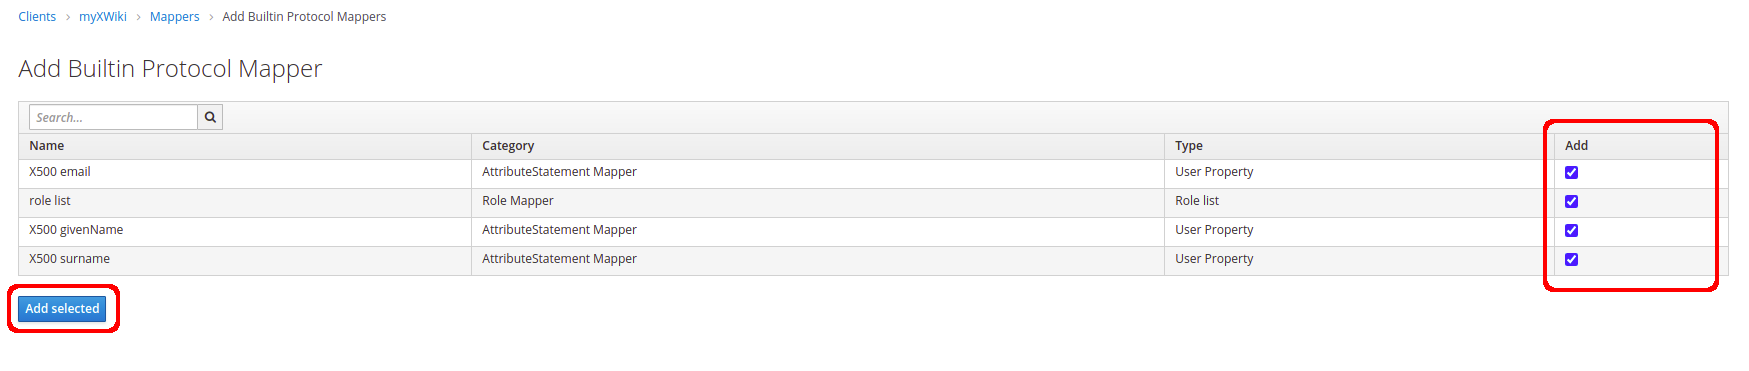
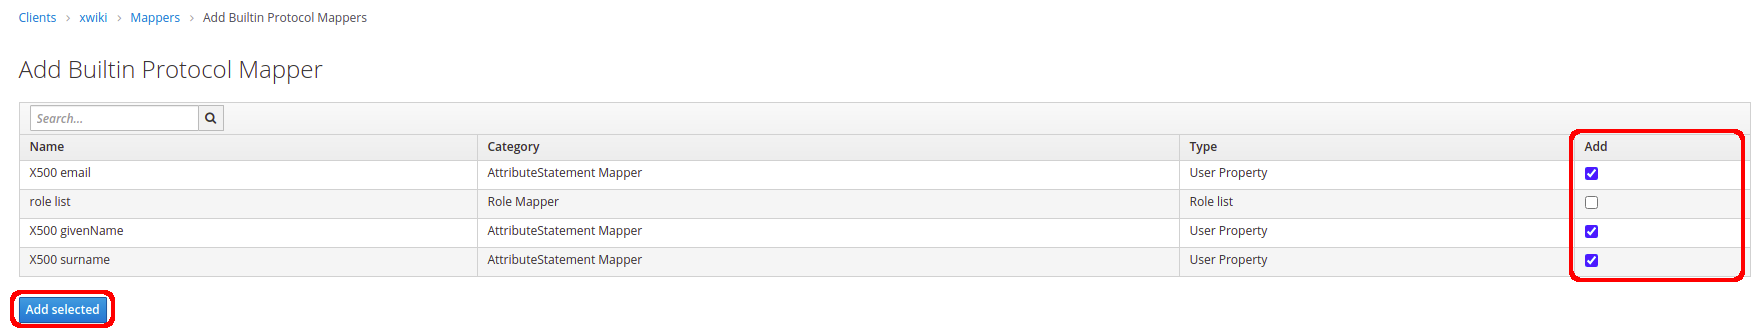
fix keycloak instructions

diff --git a/keycloak-setup.md b/keycloak-setup.md
@@ -1,7 +1,7 @@
-# It has been tested with KeyCloak SAML authentication.
+# It has been tested with Keycloak SAML authentication.
 
 ## Step 1) Create your realm
-+ [Follow the instructions in KeyCloak documentation.](https://www.keycloak.org/docs/latest/getting_started)
++ [Follow the instructions in Keycloak documentation.](https://www.keycloak.org/docs/latest/getting_started)
 
 
 ![keycloak realm settings](images/keycloak_realm_settings.png)
@@ -71,7 +71,7 @@
 ## Step 4) Client Mappers
 
 + Click over the "Add Builtin" button.
-+ Check all fields and click over the "Add sleected" button.
++ Check all fields and click over the "Add selected" button.
 
 ![keycloak_clients_mapper1](images/keycloak_clients_mapper1.png)
 ![keycloak_clients_mapper2](images/keycloak_clients_mapper2.png)
@@ -82,13 +82,20 @@
 ![keycloak_clients_mapper_givenname](images/keycloak_clients_mapper_givenname.png)
 ![keycloak_clients_mapper_surname](images/keycloak_clients_mapper_surname.png)
 ![keycloak_clients_mapper_email](images/keycloak_clients_mapper_email.png)
-![keycloak_clients_mapper_role](images/keycloak_clients_mapper_role.png)
 
 + Add a new group settings.
 
 ![keycloak_clients_mapper_group](images/keycloak_clients_mapper_group.png)
 
-+ Create a new user.
+
+## Step 5) Client Scopes 
++ Client Scopes menu > role_list > Mappers > [edit] > enable [Single Role Attribute]
+
+![keycloak_clients_mapper_roles](images/keycloak_clients_mapper_roles.png)
+
+
+## Step 6) Create user
++ Go to User menu and click over Add user button.
 
 ![keycloak_user](images/keycloak_user.png)
 

diff --git a/google-workspace-setup.md b/google-workspace-setup.md
@@ -1,14 +1,13 @@
-= SAML 2.0 Authenticator =
+# Google Workspace setup instructions
 
-This module has been developed to provide a working SAML 2.0 Authenticator and is mostly based on
-[https://github.com/xwiki-contrib/authenticator-saml], but replaces OpenSAML by OneLogin 
-[https://github.com/onelogin/java-saml] for the SAML authentication.
+These instructions are applicable to configure Google Workspace as the IDP for XWiki
+using this plugin.  
 
-It has been tested with Google Workspace SAML authentication. The following configurations
-are required in the xwiki.cfg file:
+The following configurations are required in the xwiki.cfg file.
+
+## Required properties
 
 ```sh
-# Required properties
 xwiki.authentication.authclass=com.xwiki.authentication.saml.XWikiSAML20Authenticator
 
 xwiki.authentication.saml2.idp.single_sign_on_service.url=https://accounts.google.com/o/saml2/idp?idpid=<Copy from google>
@@ -21,7 +20,7 @@ for line breaks
 xwiki.authentication.saml2.sp.assertion_consumer_service.url=https://<you wiki domain>/bin/loginsubmit/XWiki/XWikiLogin
 ```
 
-== Google Workspace set up instructions ==
+## Google Workspace set up instructions
 
 When setting up with Google Workspace SAML, follow these instructions:
 

diff --git a/dev-quick-start.md b/dev-quick-start.md
@@ -39,8 +39,9 @@ mvn clean deploy -DaltDeploymentRepository=repo::default::http://localhost:8081/
 + Login at Console Administration
     + User: admin
     + Password: admin
-+ After the instalation is finished, its necessary create the realm in the KeyCloak importing configurations:
-    + Go to KeyCloak interface and select the option ```Add realm```.
++ After the instalation is finished, its necessary create the realm in the Keycloak importing configurations:
+    + Keep proposed MyNewRealm name.
+    + Go to Keycloak interface and select the option ```Add realm```.
     + Import ```realm-export.json``` file from quick-start folder.
         + Check ```Enable``` option and click over ```Create``` button.  
 
@@ -80,6 +81,14 @@ $ ./setup.sh
     + CLick over the install button and wait until finish the instalation process.
 
 ![xwiki_extension](images/xwiki_extension.png)
+
++ Run the following command inside the quick-start folder:
+
+```sh
+docker-compose restart web
+```
+
+
 
 ---
 
